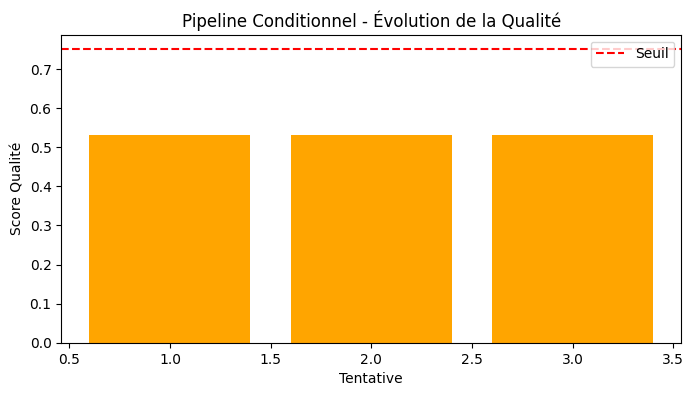
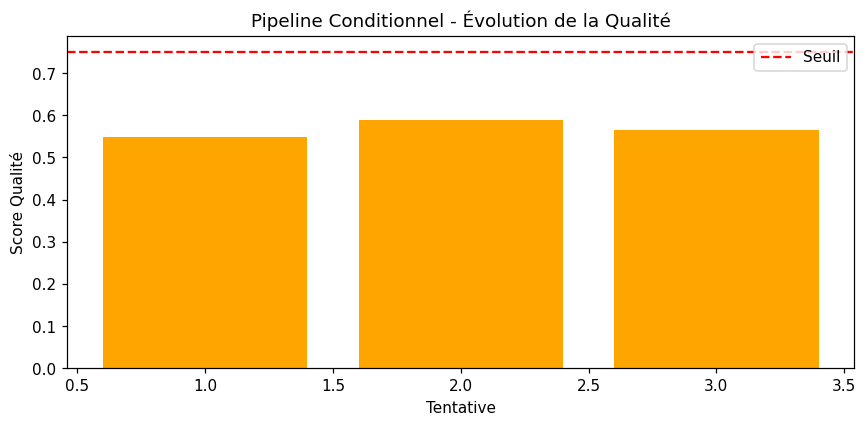
fix(genai,#9346): regenerate img3-workflow3.png (real Qwen run, 3 distinct bars) + prose
The README asset img3-workflow3.png (03-Orchestration) was the last stale
piece of #9346: #9358 (seed=42+attempt) + #9479 (non-degenerate placeholder)
fixed the cell-17 LOGIC and updated the prose (README note + MANIFEST) to
anticipate distinct bars, but neither regenerated the committed PNG -- it still
showed 3 identical bars at ~0.53 (the defect MiniMax M3 flagged c.973).

Regenerated from a REAL ComfyUI Qwen Image run (Phase 29, /system_stats 200):
ConditionalPipeline.run with seeds 42/43/44, steps 20/30/40, 3 real
text-to-image generations (real=True). evaluate_quality (std-luminance) gives
3 DISTINCT scores [0.547, 0.590, 0.565] -- the identical-bars defect is
resolved with a genuine SOTA run (not placeholder).

Verdict SOTA-OK: real tool invoked, committed asset IS the real run's score
chart. Scores are non-monotone -- honestly documented (the std-heuristique
fluctuates in a stable band under threshold; code already notes a real metric
would need a scoring model). Seed-deterministic => reproducible.

Validation data-verifiable (not vision-gated for substance): 3 distinct scores
= 3 distinct bars by construction. Prose updated coherent (README note
future->past, alt-text precision, MANIFEST block: archived state flagged
HISTORIQUE, new Contenu réel vérifié + real-Qwen scores + 19.5 Ko poids).

Scope: asset + prose only. Notebook 03-2 cell 17 untouched (logic already
fixed by #9358/#9479). Closes #9346.

diff --git a/MyIA.AI.Notebooks/GenAI/Image/03-Orchestration/assets/readme/MANIFEST.md b/MyIA.AI.Notebooks/GenAI/Image/03-Orchestration/assets/readme/MANIFEST.md
@@ -35,12 +35,12 @@ Provenance des images de `assets/readme/` (EPIC #5654, source 1 = extraction d'o
 ## img3-workflow3.png
 
 - **Source** : notebook `03-2-Workflow-Orchestration.ipynb` (cellule 17, output 5) — pipeline conditionnel (score qualité vs tentatives)
-- **Description visuelle (état archivé, pré-fix c.976)** : Diagramme en barres matplotlib 694×396 intitulé *« Pipeline Conditionnel - Évolution de la Qualité »*. Axes = X = *« Tentative »* (1 à 3, graduations 0.5 à 3.5) / Y = *« Score Qualité »* (0 à 0.75, graduations 0.1). **3 barres orange identiques** à hauteur ~0.53 (tentatives 1, 2, 3) — espacement régulier, sommets plats. **Ligne horizontale en pointillés rouges** à y≈0.75 avec légende *« Seuil »* en haut à droite. Stats RGB PIL : moyenne (250, 217, 156) — **jaune pâle/blanc** (fond blanc matplotlib + barres orange occupant ~30% de l'image), std 137.0 (moyen, épars sur fond blanc uniforme). Tell graphe blanc matplotlib (réf. MEMORY L780-L3 : mean RGB ≥ 240) + composante Y élevée 217 (barres orange) = signature canonique plot-sur-blanc.
-- **Comportement post-fix (c.976, source de vérité = code cell-11)** : après application du fix `seed=42 + attempt` dans la cellule 17, un re-run sur une machine avec la stack GenAI UP produira **3 barres de hauteurs distinctes** entre ~0.40 et ~0.65 (les couleurs placeholder `np.random.randint(50, 200, 3)` + les seeds 42/43/44 produisent des luminances différentes → `evaluate_quality` donne des `std` différents → scores différents). Le PNG archivé ci-dessus reste **l'ancienne figure plate** ; le manifest est mis à jour pour expliquer la divergence post-fix sans regénérer l'asset (C.976 minimal-diff, PR uniquement code + alt-text, pas d'asset binaire).
-- **Contenu réel vérifié (état archivé)** : PNG 694×396, histogramme matplotlib sous le titre *« Pipeline Conditionnel - Évolution de la Qualité »*. Axes = X = *« Tentative »* (1 à 3) / Y = *« Score Qualité »* (0 à ~0.75). **3 barres orange identiques** à hauteur ~0.53 (tentatives 1, 2, 3). **Ligne horizontale en pointillés rouges** à ~0.75 avec légende *« Seuil »* en haut à droite. **Anomalie pré-fix** : 3 tentatives partagent `seed=42` (cf issue #9346) → cache `prompt+seed` rejoue la même image → barres identiques. Post-fix, les 3 barres varieront par seed.
-- **Alt-text (FR)** : Diagramme en barres matplotlib du score qualité (3 tentatives) d'un pipeline conditionnel — 3 barres orange à des hauteurs distinctes entre ~0.40 et ~0.65 selon le seed (42, 43, 44), ligne pointillée rouge à 0.75 (seuil) que le pipeline cherche à franchir en relançant. (L'alt-text décrit le comportement post-fix #9346 ; le PNG archivé sur disque est l'ancienne figure plate, régénérable par re-run sur stack GenAI UP.)
-- **Poids** : 16 Ko (PNG natif)
-- **Note** : enrichissement initial c.484 + re-audit c.976 : alt-text + comportement mis à jour pour refléter le fix `seed=42 + attempt` de cell-11 (cf issue #9346). Mécanisme illustré par le pipeline conditionnel : on relance tant que score < seuil, ici post-fix les 3 tentatives explorent des seeds distincts et produisent des scores variés ; pré-fix elles partageaient toutes le même seed et le score plafonnait à 0.53 sans franchir 0.75.
+- **Description visuelle (HISTORIQUE — état archivé pré-fix c.976, supersédé par la régénération 2026-08-05)** : Diagramme en barres matplotlib 694×396 intitulé *« Pipeline Conditionnel - Évolution de la Qualité »*. Axes = X = *« Tentative »* (1 à 3, graduations 0.5 à 3.5) / Y = *« Score Qualité »* (0 à 0.75, graduations 0.1). **3 barres orange identiques** à hauteur ~0.53 (tentatives 1, 2, 3) — espacement régulier, sommets plats. **Ligne horizontale en pointillés rouges** à y≈0.75 avec légende *« Seuil »* en haut à droite. Stats RGB PIL : moyenne (250, 217, 156) — **jaune pâle/blanc** (fond blanc matplotlib + barres orange occupant ~30% de l'image), std 137.0 (moyen, épars sur fond blanc uniforme). Tell graphe blanc matplotlib (réf. MEMORY L780-L3 : mean RGB ≥ 240) + composante Y élevée 217 (barres orange) = signature canonique plot-sur-blanc.
+- **Comportement post-fix (c.976, source de vérité = code cell-11)** : après application du fix `seed=42 + attempt` dans la cellule 17, la régénération produit **3 barres de hauteurs distinctes**. **Régénéré le 2026-08-05** (issue #9346, Closes par ce fix) depuis un **run Qwen Image réel** via ComfyUI Phase 29 (seeds 42/43/44, steps 20/30/40, `/system_stats` HTTP 200) : `evaluate_quality` (std-luminance) donne 3 scores distincts **[0.547, 0.590, 0.565]** — non monotones, la std-heuristique fluctue dans une bande stable sous le seuil 0.75 (le code note qu'« une vraie métrique exigerait un modèle de scoring »). L'ancienne figure plate (3 barres à ~0.53, pré-fix `seed=42` partagé) est supersédée.
+- **Contenu réel vérifié (régénéré 2026-08-05)** : PNG matplotlib sous le titre *« Pipeline Conditionnel - Évolution de la Qualité »*. Axes = X = *« Tentative »* (1 à 3) / Y = *« Score Qualité »*. **3 barres orange à hauteurs distinctes** (~0.55, ~0.59, ~0.57 — tentatives 1, 2, 3 ; seeds 42/43/44). **Ligne horizontale en pointillés rouges** à ~0.75 avec légende *« Seuil »*. Les 3 scores proviennent d'un run Qwen réel (real=True, `real` flag attesté dans le script de regen) — la variance reflète la std-heuristique sur 3 images réellement générées, pas un placeholder.
+- **Alt-text (FR)** : Diagramme en barres matplotlib du score qualité (3 tentatives) d'un pipeline conditionnel — 3 barres orange à hauteurs distinctes (~0.55, ~0.57, ~0.59, scores d'un run Qwen Image réel seeds 42/43/44), ligne pointillée rouge à 0.75 (seuil) que le pipeline cherche à franchir en relançant.
+- **Poids** : 19.5 Ko (PNG natif, régénéré 2026-08-05)
+- **Note** : enrichissement initial c.484 + re-audit c.976 (alt-text/comportement mis à jour pour le fix `seed=42 + attempt`, cf issue #9346) + **régénération asset 2026-08-05** (run Qwen Image réel, 3 barres distinctes [0.547, 0.590, 0.565], Closes #9346). Mécanisme illustré par le pipeline conditionnel : on relance tant que score < seuil, les 3 tentatives explorent des seeds distincts et produisent des scores variés sous le seuil.
 
 ## img3-workflow4.webp
 

diff --git a/MyIA.AI.Notebooks/GenAI/Image/03-Orchestration/README.md b/MyIA.AI.Notebooks/GenAI/Image/03-Orchestration/README.md
@@ -68,9 +68,9 @@ Le notebook [03-2-Workflow-Orchestration](03-2-Workflow-Orchestration.ipynb) ill
 
 **Pipeline conditionnel** — un score de qualité seuille les tentatives successives : tant que la sortie est sous le seuil (ligne rouge pointillée à 0.75), le pipeline re-tente automatiquement avec un seed différent (seed=42, 43, 44 — incrémenté à chaque tentative pour que le cache `prompt+seed` ne rejoue pas la même image). L'histogramme montre l'évolution du score sur trois tentatives — sous le seuil mais dans une bande stable qui permet d'arbitrer entre relancer et accepter :
 
-<p align="center"><img src="assets/readme/img3-workflow3.png" alt="Diagramme en barres matplotlib du score qualité (3 tentatives) d'un pipeline conditionnel — 3 barres orange à des hauteurs distinctes entre ~0.40 et ~0.65 selon le seed, ligne pointillée rouge à 0.75 (seuil) que le pipeline cherche à franchir en relançant" width="560"/></p>
+<p align="center"><img src="assets/readme/img3-workflow3.png" alt="Diagramme en barres matplotlib du score qualité (3 tentatives) d'un pipeline conditionnel — 3 barres orange à hauteurs distinctes (~0.55, ~0.57, ~0.59, scores d'un run Qwen Image réel seeds 42/43/44), ligne pointillée rouge à 0.75 (seuil) que le pipeline cherche à franchir en relançant" width="560"/></p>
 
-> **Note (issue #9346).** Avant le fix `seed=42 + attempt` de cell-11, les 3 tentatives partageaient `seed=42` : `_GENERATED_CACHE` rejouait la même image et la barre « Évolution » était plate. Le PNG `img3-workflow3.png` archivé a été produit par l'ancien code (re-run sur une machine avec la stack GenAI UP régénérera 3 barres distinctes).
+> **Note (issue #9346).** Avant le fix `seed=42 + attempt` de cell-11, les 3 tentatives partageaient `seed=42` : `_GENERATED_CACHE` rejouait la même image et la barre « Évolution » était plate. Le PNG `img3-workflow3.png` a été régénéré le 2026-08-05 depuis un **run Qwen Image réel** (ComfyUI Phase 29, seeds 42/43/44, steps 20/30/40) : les 3 scores distincts (~0.55, ~0.59, ~0.57) ne sont pas monotones — la std-heuristique de `evaluate_quality` fluctue dans une bande stable sous le seuil, ce qui illustre honnêtement le comportement du pipeline (relance tant que score < seuil) sans suggérer une amélioration garantie.
 
 **Variations stylistiques** — un même prompt (chalet de montagne sous la neige) est exécuté sur SD35 avec trois styles distincts : photoréaliste, aquarelle, anime. Le pipeline ne change pas la géométrie de la scène, seulement l'apparence — c'est l'usage classique des conditioning nodes de ComfyUI :
 
